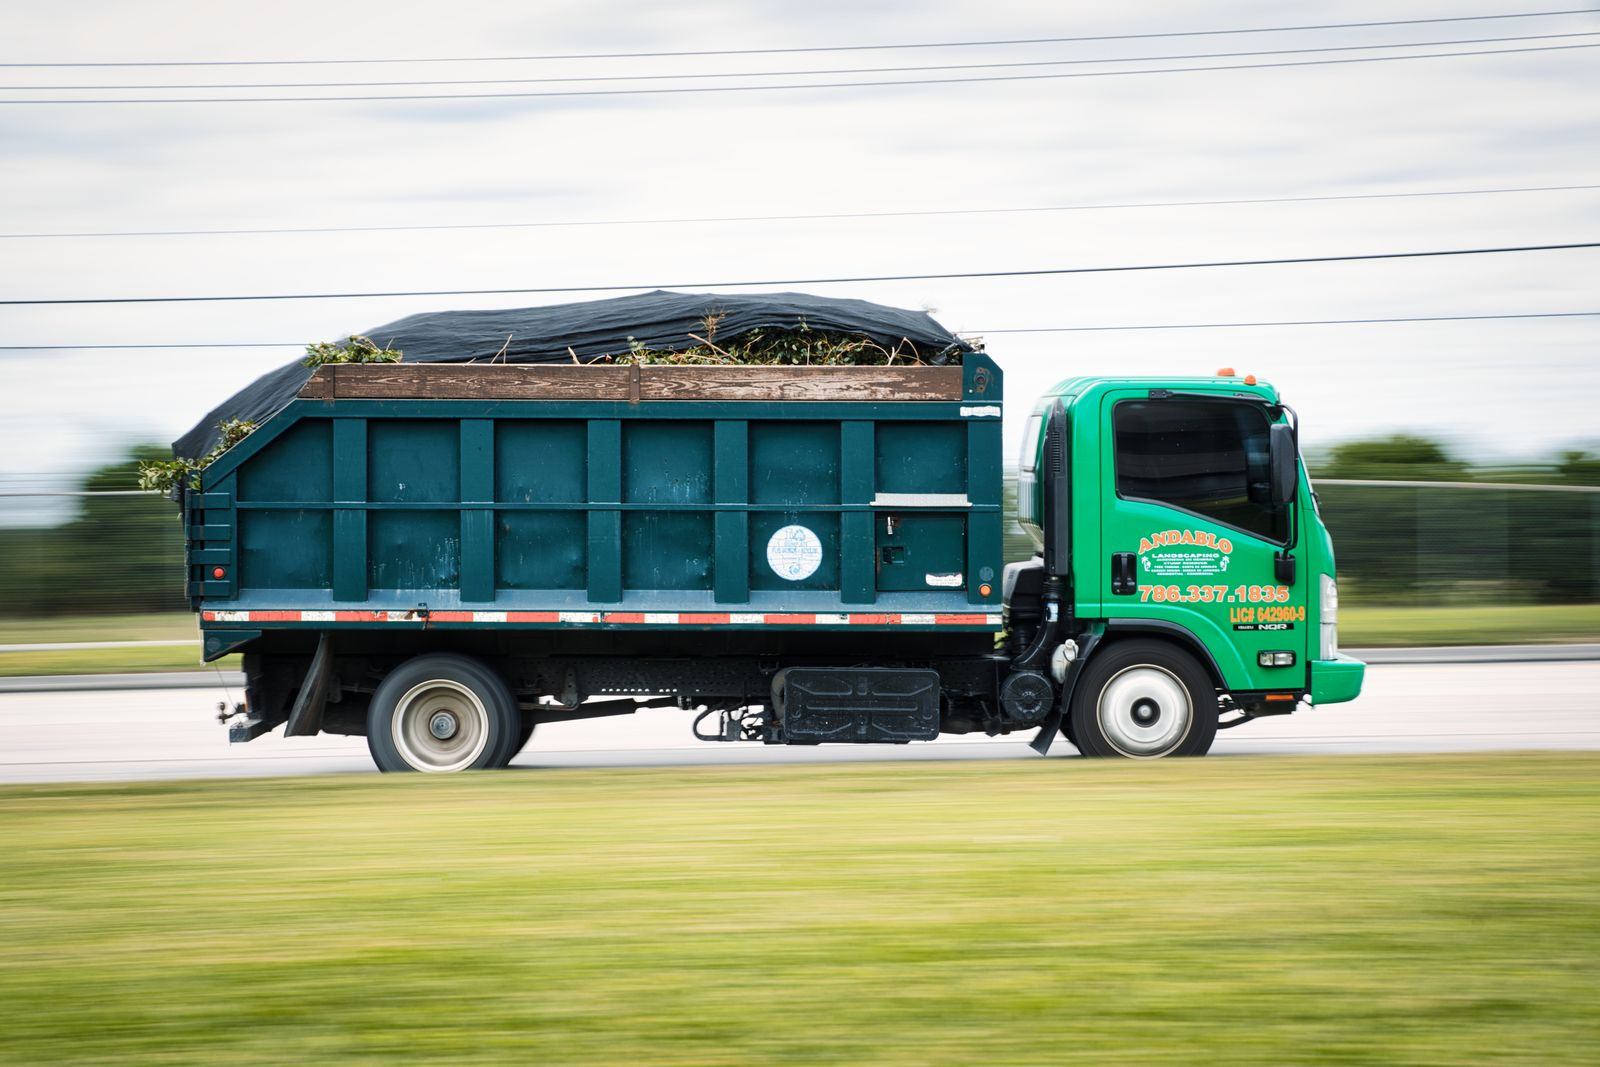
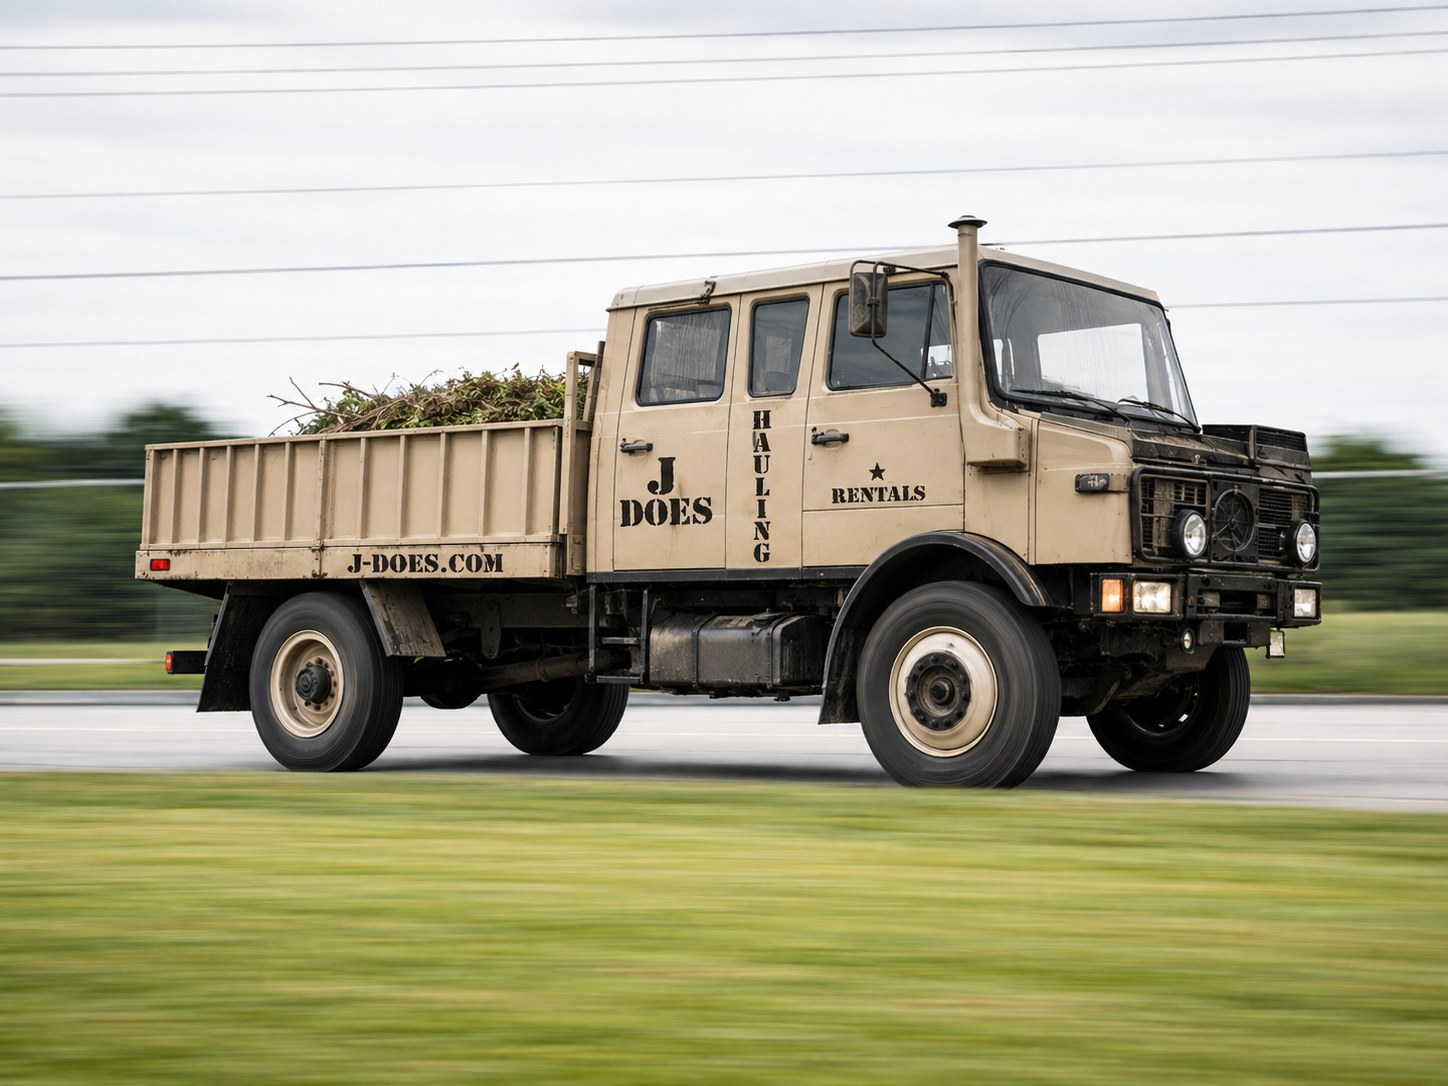
Replace yard-waste photo that carried a competitor's branding
The Pexels placeholder in the hauling gallery showed a green dump truck
lettered "ANDABLO LANDSCAPING" with that company's phone number and
license number on the door - published under a caption presenting it as
J's own work. Swap in the client's J Does truck image, update the alt
text, and note in SOURCES.md why the old one must not come back.

diff --git a/hauling/index.html b/hauling/index.html
@@ -151,7 +151,7 @@
             <figcaption class="text-ink text-sm font-bold uppercase tracking-wide px-4 py-3">Vehicles &amp; Equipment</figcaption>
           </figure>
           <figure class="border border-line overflow-hidden bg-paper">
-            <img src="../assets/img/hauling-truck-action.jpg" alt="Dump truck hauling yard waste" class="w-full aspect-[4/3] object-cover" loading="lazy">
+            <img src="../assets/img/hauling-truck-action.jpg" alt="J Does dump truck hauling a load of yard waste" class="w-full aspect-[4/3] object-cover" loading="lazy">
             <figcaption class="text-ink text-sm font-bold uppercase tracking-wide px-4 py-3">Yard Waste &amp; Debris</figcaption>
           </figure>
         </div>

diff --git a/assets/img/SOURCES.md b/assets/img/SOURCES.md
@@ -9,9 +9,15 @@ Originals kept (uncommitted) in `/source-photos/`.
 | handshake.jpg | Client (AI-generated) | Handshake between two people |
 | washer-dryer.jpg | Client (Pixabay – erikawittlieb #902359) | White washer & dryer pair in a laundry room |
 | laundry-loading.jpg | Client (Pixabay – stevepb #2668472) | Loading laundry into a front-load dryer |
-| hauling-truck-action.jpg | Pexels #11521609 (placeholder) | Green dump truck hauling yard waste |
+| hauling-truck-action.jpg | Client (AI-generated) | Tan J Does flatbed dump truck hauling yard waste |
 | mowing.jpg | Pexels #6728930 (placeholder) | Person mowing a green lawn |
 | trash-bins.jpg | Pexels #14008367 (placeholder) | Two green wheelie bins at a picket fence |
 
-Pexels = free, no attribution required, commercial OK. The three "placeholder" images
+Pexels = free, no attribution required, commercial OK. The remaining "placeholder" images
 can be swapped for the client's own photos when available.
+
+`hauling-truck-action.jpg` was replaced 2026-08-22. The previous Pexels shot
+(#11521609) showed a **competitor's branding** — "ANDABLO LANDSCAPING", phone
+786.337.1835, and LIC# 642960-3 on the door — in a gallery captioned as J's own
+work. Do not restore it. Check any replacement stock photo for third-party
+signage, plates, and phone numbers before using it.
